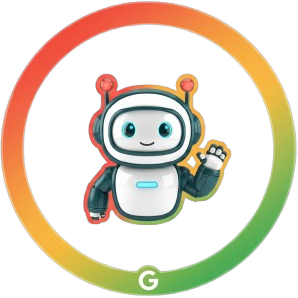
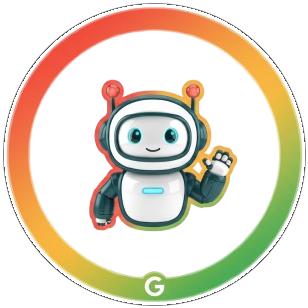
ASE-IA: badge estilo Tutor (interior blanco, exterior transparente) + modo online
- Badge regenerado: anillo con interior BLANCO y fondo externo TRANSPARENTE
  (como el Tutor Socrático), a partir del archivo del robot.
- Modo online opcional: constante AI_PROXY_URL en ase-ia.html; si se define, la
  IA redacta a partir de las fuentes recuperadas (grounding) y cae a modo local
  si falla. Chat convertido a async.
- ase-ia-worker.js: Cloudflare Worker de chat con grounding (mismo esquema y
  cuenta/clave del Tutor), guarda la clave en secreto.
- CONECTAR-API.md: instruccionario paso a paso para conectar la API
  (Cloudflare Worker recomendado; notas para OpenAI/Gemini y la API completa).

Claude-Session: https://claude.ai/code/session_015rRTqhM7aNfoSYkL9NWpZj

diff --git a/ase-ia-worker.js b/ase-ia-worker.js
@@ -1,0 +1,138 @@
+/**
+ * ============================================================================
+ *  ASE-IA · Proxy de chat con IA (Cloudflare Worker)
+ * ============================================================================
+ *  Guarda en secreto tu API key (Anthropic) y es el ÚNICO que la conoce. La
+ *  página ase-ia.html le envía la pregunta + las FUENTES ya recuperadas del
+ *  colegio, y este Worker le pide a la IA que redacte una respuesta anclada a
+ *  esas fuentes (nunca inventa). La clave jamás viaja al navegador.
+ *
+ *  CÓMO DESPLEGARLO (sin instalar nada):
+ *  1. https://dash.cloudflare.com → Workers & Pages → Create → Create Worker.
+ *     Nómbralo, por ejemplo, "ase-ia".
+ *  2. Edit code → borra el ejemplo → pega TODO este archivo → Deploy.
+ *  3. Settings → Variables and Secrets → Add:
+ *        Tipo: Secret   Nombre: ANTHROPIC_API_KEY   Valor: tu clave sk-ant-...
+ *     (Puedes usar la MISMA clave del Tutor Socrático.) Guarda y Deploy.
+ *  4. Copia la URL del Worker (https://ase-ia.TU-CUENTA.workers.dev) y pégala
+ *     en ase-ia.html, en la constante AI_PROXY_URL.
+ * ============================================================================
+ */
+
+const ALLOWED_ORIGINS = [
+  "https://franciscoamigo21-coder.github.io",
+  "https://www.josejoaquinprieto.cl",
+  "https://josejoaquinprieto.cl",
+];
+
+const MODEL = "claude-sonnet-4-6";
+
+function corsHeaders(origin) {
+  const allowed = ALLOWED_ORIGINS.includes(origin) ? origin : ALLOWED_ORIGINS[0];
+  return {
+    "Access-Control-Allow-Origin": allowed,
+    "Access-Control-Allow-Methods": "POST, OPTIONS",
+    "Access-Control-Allow-Headers": "Content-Type",
+    "Vary": "Origin",
+  };
+}
+
+const ROLE_TXT = {
+  student: "El usuario es un ESTUDIANTE.",
+  teacher: "El usuario es un DOCENTE.",
+  guardian: "El usuario es un APODERADO.",
+};
+
+function systemPrompt(role) {
+  return (
+    `Eres ASE-IA, el Asistente Escolar de Inteligencia Artificial del Colegio ` +
+    `Presidente José Joaquín Prieto (SIP Red de Colegios, Chile).\n` +
+    `REGLAS ABSOLUTAS:\n` +
+    `1. Responde ÚNICAMENTE con la información de las FUENTES AUTORIZADAS que ` +
+    `recibas. PROHIBIDO inventar datos, fechas o normas.\n` +
+    `2. Cita la fuente de cada afirmación con su marcador [n].\n` +
+    `3. Si las fuentes no contienen la respuesta, dilo con honestidad y sugiere ` +
+    `consultar al profesor jefe, secretaría o Alexia.\n` +
+    `4. Español de Chile, tono claro, cercano y respetuoso. Sé conciso.\n` +
+    `${ROLE_TXT[role] || ROLE_TXT.student}`
+  );
+}
+
+function json(obj, status, cors) {
+  return new Response(JSON.stringify(obj), {
+    status,
+    headers: { "Content-Type": "application/json", ...cors },
+  });
+}
+
+export default {
+  async fetch(request, env) {
+    const origin = request.headers.get("Origin") || "";
+    const cors = corsHeaders(origin);
+
+    if (request.method === "OPTIONS") return new Response(null, { status: 204, headers: cors });
+    if (request.method === "GET") {
+      return json({ ok: true, servicio: "ASE-IA Worker", claveConfigurada: !!env.ANTHROPIC_API_KEY, modelo: MODEL }, 200, cors);
+    }
+    if (request.method !== "POST") return json({ error: "Método no permitido" }, 405, cors);
+    if (!env.ANTHROPIC_API_KEY) return json({ error: "Falta configurar ANTHROPIC_API_KEY" }, 500, cors);
+
+    let body;
+    try { body = await request.json(); } catch { return json({ error: "JSON inválido" }, 400, cors); }
+
+    const question = (body.question || "").toString().slice(0, 1000);
+    const role = (body.role || "student").toString();
+    const context = Array.isArray(body.context) ? body.context.slice(0, 6) : [];
+    const history = Array.isArray(body.history) ? body.history.slice(-6) : [];
+
+    if (question.trim().length < 2) return json({ error: "Pregunta vacía" }, 400, cors);
+    if (context.length === 0) {
+      return json({ reply: "No tengo información autorizada del establecimiento sobre eso. Consúltalo con tu profesor jefe, en secretaría o en Alexia." }, 200, cors);
+    }
+
+    const fuentes = context
+      .map((c, i) => `[${i + 1}] ${c.titulo}: ${c.fragmento}`)
+      .join("\n");
+    const userContent =
+      `PREGUNTA: ${question}\n\n` +
+      `FUENTES AUTORIZADAS (usa solo estas y cita [n]):\n${fuentes}`;
+
+    const messages = [];
+    for (const h of history) {
+      if (h && (h.role === "user" || h.role === "assistant") && typeof h.content === "string") {
+        messages.push({ role: h.role, content: h.content.slice(0, 1500) });
+      }
+    }
+    messages.push({ role: "user", content: userContent });
+
+    let aiResp;
+    try {
+      aiResp = await fetch("https://api.anthropic.com/v1/messages", {
+        method: "POST",
+        headers: {
+          "Content-Type": "application/json",
+          "x-api-key": env.ANTHROPIC_API_KEY,
+          "anthropic-version": "2023-06-01",
+        },
+        body: JSON.stringify({
+          model: MODEL,
+          max_tokens: 700,
+          system: systemPrompt(role),
+          messages,
+        }),
+      });
+    } catch {
+      return json({ error: "No se pudo contactar a la IA" }, 502, cors);
+    }
+
+    if (!aiResp.ok) {
+      let detalle = "";
+      try { detalle = (await aiResp.text()).slice(0, 300); } catch {}
+      return json({ error: `Error IA ${aiResp.status}`, detalle }, 502, cors);
+    }
+
+    const data = await aiResp.json();
+    const block = (data.content || []).find((b) => b.type === "text");
+    return json({ reply: (block?.text || "").trim() }, 200, cors);
+  },
+};

diff --git a/ase-ia.html b/ase-ia.html
@@ -247,6 +247,14 @@
 </div>
 
 <script>
+/* ============================================================================
+ *  CONEXIÓN A UNA API DE IA (modo online, opcional)
+ *  Deja "" para el modo local (sin clave). Para respuestas generativas reales,
+ *  pega aquí la URL de tu proxy (Cloudflare Worker) — ver docs/CONECTAR-API.md.
+ *  Ej: const AI_PROXY_URL = "https://ase-ia.TU-CUENTA.workers.dev";
+ * ========================================================================== */
+const AI_PROXY_URL = "";
+
 /* ============ LOGOS DE PLATAFORMAS (SVG oficiales por marca) ============ */
 const ICONS={
  gmail:'<svg viewBox="0 0 48 48"><path fill="#4caf50" d="M45 16.2l-5 2.75-5 4.75V40h7a3 3 0 0 0 3-3z"/><path fill="#1e88e5" d="M3 16.2l3.6 1.7L13 23.7V40H6a3 3 0 0 1-3-3z"/><path fill="#e53935" d="M35 11.2L24 19.45 13 11.2 12 17l1 6.7 11 8.25 11-8.25 1-6.7z"/><path fill="#c62828" d="M3 12.3V16.2l10 7.5V11.2L9.9 8.86A4.3 4.3 0 0 0 3 12.3z"/><path fill="#fbc02d" d="M45 12.3V16.2l-10 7.5V11.2l3.1-2.34A4.3 4.3 0 0 1 45 12.3z"/></svg>',
@@ -497,8 +505,26 @@ function typing(on){
   else if(!on&&typingRow){typingRow.remove();typingRow=null;}
 }
 function renderSugs(){const box=document.getElementById("sugs");box.innerHTML="";SUGS[ROLE].forEach(s=>{const b=el("button","sug",s);b.type="button";b.onclick=()=>ask(s);box.appendChild(b);});}
-function ask(text){text=(text||"").trim();if(!text)return;document.getElementById("sugs").innerHTML="";add(text,"user");document.getElementById("q").value="";typing(true);
-  setTimeout(()=>{const r=answer(text);typing(false);add(r.reply,"bot",r.citations);convo.push({role:"user",content:text});convo.push({role:"assistant",content:r.reply});},520);}
+async function ask(text){
+  text=(text||"").trim();if(!text)return;
+  document.getElementById("sugs").innerHTML="";add(text,"user");document.getElementById("q").value="";typing(true);
+  const local=answer(text);
+  let reply=local.reply;
+  // Modo online: si hay proxy y la consulta tiene fuentes, la IA redacta a
+  // partir de ESAS fuentes (grounding). Si falla, usa la respuesta local.
+  if(AI_PROXY_URL && local.citations.length){
+    try{
+      const res=await fetch(AI_PROXY_URL,{method:"POST",headers:{"Content-Type":"application/json"},
+        body:JSON.stringify({question:text,role:ROLE,context:local.citations.map(c=>({titulo:c.titulo,fragmento:c.fragmento})),history:convo.slice(-6)})});
+      const data=await res.json();
+      if(data&&data.reply) reply=data.reply;
+    }catch(e){ /* respaldo local */ }
+  } else {
+    await new Promise(r=>setTimeout(r,420));
+  }
+  typing(false);add(reply,"bot",local.citations);
+  convo.push({role:"user",content:text});convo.push({role:"assistant",content:reply});
+}
 
 function enter(role){
   ROLE=role;convo.length=0;log.innerHTML="";

diff --git a/CONECTAR-API.md b/CONECTAR-API.md
@@ -1,0 +1,95 @@
+# 🔌 Cómo conectar ASE-IA a una API de IA
+
+ASE-IA funciona en **dos modos**:
+
+| Modo | Qué hace | Requiere clave |
+|------|----------|:---:|
+| **Local** (por defecto) | Redacta respuestas extractivas desde los documentos del colegio. Funciona ya, gratis, sin inventar. | ❌ |
+| **Online** | Una IA real (Claude/Gemini/OpenAI) redacta respuestas más naturales **usando solo las fuentes** que ASE-IA recupera. | ✅ |
+
+La clave **nunca** puede ir en la página (es pública). Por eso se usa un pequeño
+**proxy** que la guarda en secreto. Es exactamente el mismo esquema del Tutor
+Socrático — puedes usar la **misma cuenta y la misma clave**.
+
+---
+
+## ✅ Opción recomendada: Cloudflare Worker (gratis, 5 minutos)
+
+### 1. Tener una API key de Anthropic
+- Entra a https://console.anthropic.com → **API Keys** → **Create Key**.
+- Copia la clave (empieza por `sk-ant-…`). *Puedes reutilizar la del Tutor Socrático.*
+
+### 2. Crear el Worker
+1. https://dash.cloudflare.com → **Workers & Pages** → **Create** → **Create Worker**.
+2. Nómbralo, por ejemplo, **`ase-ia`**.
+3. Pulsa **Edit code**, borra el ejemplo y **pega TODO** el contenido de
+   [`ase-ia-worker.js`](./ase-ia-worker.js). Pulsa **Deploy**.
+
+### 3. Guardar la clave como secreto
+En el Worker → **Settings** → **Variables and Secrets** → **Add**:
+- Tipo: **Secret**
+- Nombre: **`ANTHROPIC_API_KEY`**
+- Valor: tu clave `sk-ant-…`
+
+Guarda y pulsa **Deploy** de nuevo.
+
+### 4. Copiar la URL del Worker
+Se ve así: `https://ase-ia.TU-CUENTA.workers.dev`
+Puedes probarla abriéndola en el navegador (debe responder
+`{"ok":true,"claveConfigurada":true,…}`).
+
+### 5. Conectar la página
+En [`ase-ia.html`](./ase-ia.html) busca la línea:
+
+```js
+const AI_PROXY_URL = "";
+```
+
+y reemplázala por la URL de tu Worker:
+
+```js
+const AI_PROXY_URL = "https://ase-ia.TU-CUENTA.workers.dev";
+```
+
+Guarda y publica. **¡Listo!** ASE-IA ya usa IA real online; si el proxy falla,
+vuelve automáticamente al modo local.
+
+---
+
+## 🔎 Cómo probar que quedó bien
+1. Abre ASE-IA y pregunta *“¿Cuál es la nota mínima de aprobación?”*.
+   - La respuesta será más natural y seguirá citando la fuente **[1]**.
+2. Pregunta algo fuera de los documentos (*“¿capital de Francia?”*): debe seguir
+   respondiendo **que no tiene esa información** (nunca inventa).
+
+---
+
+## 🔄 Usar OpenAI o Gemini en vez de Claude
+Edita `ase-ia-worker.js` y cambia el bloque que llama a la IA:
+
+- **OpenAI:** endpoint `https://api.openai.com/v1/chat/completions`, cabecera
+  `Authorization: Bearer <clave>`, modelo `gpt-4o-mini`, secreto `OPENAI_API_KEY`.
+- **Gemini:** endpoint
+  `https://generativelanguage.googleapis.com/v1beta/models/gemini-1.5-flash:generateContent?key=<clave>`,
+  secreto `GEMINI_API_KEY`.
+
+La lógica de grounding (usar solo las fuentes y citar `[n]`) se mantiene igual.
+
+---
+
+## 🔒 Seguridad
+- La clave vive **solo** en el Worker (secreto), nunca en la página.
+- `ALLOWED_ORIGINS` en `ase-ia-worker.js` limita qué sitios pueden usar tu proxy
+  (ya incluye tu GitHub Pages y el dominio del colegio; agrega otros si publicas
+  en más dominios).
+- El grounding se mantiene: la IA solo recibe las fuentes autorizadas por el
+  colegio; si no hay fuentes, responde “sin información”.
+
+---
+
+## 🚀 Alternativa avanzada: API completa (Node/Express)
+Si prefieres un backend propio con RAG por embeddings, autenticación por roles y
+panel de administración, está el proyecto completo en la carpeta
+[`ase-ia/`](./ase-ia/) (monorepo). Ahí basta con definir `AI_PROVIDER=gemini|openai|anthropic`
+y su clave. Ver [`ase-ia/docs/INSTALACION.md`](./ase-ia/docs/INSTALACION.md) y
+[`ase-ia/docs/DESPLIEGUE.md`](./ase-ia/docs/DESPLIEGUE.md).
